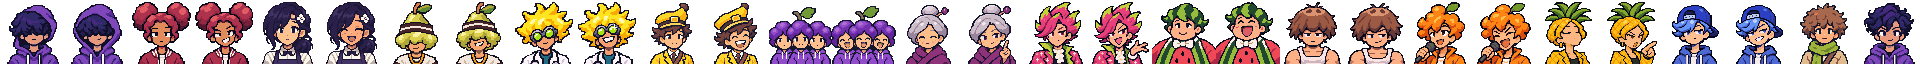
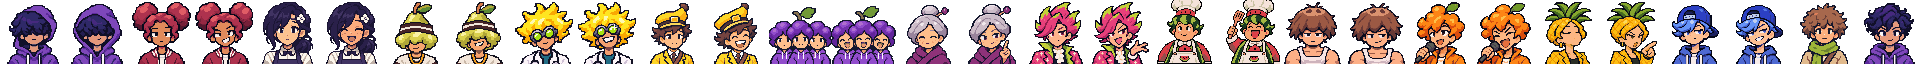
Settings, doors and HUD simplification (work in progress)
Claude-Session: https://claude.ai/code/session_01HtPH4yiA1RL6qEeafuyuW3

Changed region(s): [[0.5938, 0.0, 0.6875, 1.0]]

diff --git a/src/story/places.ts b/src/story/places.ts
@@ -162,9 +162,13 @@ const STATION_SEEDS: Record<StopId, StationSeed> = {
     looks: [look('coats', 'Coat check', LEFT_BOX, [say('raspberry', 'neutral', 'Coat check. You could check the hood. No? Okay. No.')], 'stall')],
     exit: 'The Club',
   },
+  // The Rooftop is a food court: a menu board by the train and a stall under the awning.
   stop08: {
-    looks: [look('bench', 'Bench', RIGHT_BOX, [silence()], 'bench')],
-    exit: 'Roof stairs',
+    looks: [
+      look('menu', 'Menu board', [54, 96, 26, 34], [say('npc', 'neutral', "Tonight's special: watermelon noodles. The chef insists.", 'COOK')], 'board'),
+      look('stall', 'Food stall', [150, 88, 46, 40], [silence()], 'stall'),
+    ],
+    exit: 'Food court',
   },
   stop09: {
     looks: [look('closed', 'Closed sign', LEFT_BOX, [say('watermelon', 'bold', 'Tunnels are just big round hallways. I fit right in!')], 'sign')],
@@ -274,14 +278,14 @@ const STREET_SEEDS: Partial<Record<StopId, StreetSeed>> = {
     ],
     fruitX: 210,
   },
-  // The Rooftop reuses the rooftop stage. Berry is alone here: the crew walked out at The Club.
+  // The Rooftop food court: stalls and tables, and Watermelon at his grill at the far end. Berry is alone here: the crew walked out at The Club.
   stop08: {
     looks: [
-      look('lights', 'String lights', [60, 92, 136, 14], [silence()]),
-      look('boombox', 'Boombox', [156, 116, 20, 16], [say('npc', 'neutral', "Big guy's been hosting up here all night. Go say hi.", 'GUEST')]),
-      look('tower', 'Water tower', [120, 62, 22, 28], [silence()]),
+      look('noodles', 'Noodle stall', box(0), [say('npc', 'neutral', "Noodles? The big chef's been cooking up here since sunset.", 'COOK')], 'stall'),
+      look('tables', 'Tables', box(1), [say('npc', 'neutral', "Table for one? You look more like a table-for-five kind of kid.", 'DINER')], 'bench'),
+      look('dumplings', 'Dumpling stall', box(2), [say('npc', 'neutral', "Big guy's been hosting up here all night. Go say hi.", 'GUEST')], 'stall'),
     ],
-    fruitX: 214,
+    fruitX: 584,
   },
   stop09: {
     looks: [

diff --git a/tests/places.test.ts b/tests/places.test.ts
@@ -24,10 +24,10 @@ describe('places', () => {
     }
   });
 
-  it('reuse the drawn stages as the streets of stops 3, 5, 7 and 8, and give the rest wide streets', () => {
+  it('reuse the drawn stages as the streets of stops 3, 5 and 7, and give the rest wide streets (the Rooftop is a food court)', () => {
     for (const stop of STOPS.slice(1, 11)) {
       const street = placeOf(stop.id, 'street')!;
-      if ([3, 5, 7, 8].includes(stop.number)) {
+      if ([3, 5, 7].includes(stop.number)) {
         expect(street.bg).toBe(stop.stage);
         expect(street.width).toBe(STATION_W);
       } else {

diff --git a/src/story/stops.ts b/src/story/stops.ts
@@ -136,7 +136,7 @@ const SEEDS: StopSeed[] = [
     journey: 'Reward',
     arc: 'Berry speaks his first full line and admits what happened in July. The crew returns. Watermelon makes five.',
     song: 'tutorial',
-    stage: Tex.stageRooftop,
+    // A rooftop food court: its own street (street_rooftop), danced at its far end, Watermelon's grill (stage_rooftop).
   },
   {
     station: 'The Tunnel',

diff --git a/src/core/assets.ts b/src/core/assets.ts
@@ -85,6 +85,7 @@ export const PRESENT_IMAGES: readonly string[] = [
   'street_the_tunnel',
   'street_orange_plaza',
   'street_pineapple_hall',
+  'street_rooftop',
 ];
 
 export function optionalSheets(): OptionalSheet[] {

diff --git a/tools/build_doors.py b/tools/build_doors.py
@@ -1,0 +1,84 @@
+#!/usr/bin/env python3
+"""Build the train door art from the generated sources.
+
+Usage:
+  python3 tools/build_doors.py
+
+Each source in archive/generated-sprites/doors/<name>_raw.png is a pair of
+closed sliding doors, seen from inside the carriage, drawn by an image model
+with its windows filled in flat magenta. This crops it to 16:10, reduces it to
+a small palette, takes the most common colour of each block (so edges stay
+hard), and turns the magenta windows transparent so the game can show the
+view outside through them. Output: public/assets/img/doors_<name>.png at
+256x160, the game's art size (shown at 5x).
+
+The game splits the picture down its centre seam (x 128): the left half slides
+left and the right half slides right. The blank display above the doors and
+the two status lamps are measured by eye and kept in DOOR_STYLES in
+src/explore/doors.ts; check them there if a source is regenerated.
+"""
+from pathlib import Path
+
+import numpy as np
+from PIL import Image
+from scipy import ndimage
+
+ROOT = Path(__file__).resolve().parent.parent
+SRC = ROOT / "archive/generated-sprites/doors"
+OUT = ROOT / "public/assets/img"
+WIDTH, HEIGHT = 256, 160
+STYLES = ["metro", "wood", "porthole"]
+
+
+def is_magenta(rgb: np.ndarray) -> np.ndarray:
+    r, g, b = (rgb[..., i].astype(int) for i in range(3))
+    return (r > 170) & (b > 170) & (g < 110) & (r - g > 110) & (b - g > 110)
+
+
+def convert(raw: Image.Image, colors: int = 40) -> Image.Image:
+    raw = raw.convert("RGB")
+    w, h = raw.size
+    # Keep the top (the header with the display and lamps) and trim the floor instead.
+    crop_h = int(round(w * HEIGHT / WIDTH))
+    if crop_h <= h:
+        raw = raw.crop((0, 0, w, crop_h))
+    else:
+        crop_w = int(round(h * WIDTH / HEIGHT))
+        left = (w - crop_w) // 2
+        raw = raw.crop((left, 0, left + crop_w, h))
+    rgb = np.array(raw)
+    # Only the big magenta areas are glass; small pink details (Porthole's equaliser) stay paint.
+    labels, count = ndimage.label(is_magenta(rgb))
+    sizes = ndimage.sum(np.ones_like(labels), labels, range(1, count + 1))
+    keep = [i + 1 for i, size in enumerate(sizes) if size > labels.size * 0.01]
+    hole = np.isin(labels, keep)
+    # Fill the holes with a neutral colour before quantising so magenta takes no palette slots.
+    rgb[hole] = (40, 30, 60)
+    quantized = Image.fromarray(rgb).quantize(colors=colors, method=Image.MEDIANCUT, dither=Image.NONE)
+    palette = np.array(quantized.getpalette()[: colors * 3], dtype=np.uint8).reshape(-1, 3)
+    index = np.array(quantized)
+    h, w = index.shape
+    out = np.zeros((HEIGHT, WIDTH, 4), dtype=np.uint8)
+    for y in range(HEIGHT):
+        y0, y1 = y * h // HEIGHT, max((y + 1) * h // HEIGHT, y * h // HEIGHT + 1)
+        for x in range(WIDTH):
+            x0, x1 = x * w // WIDTH, max((x + 1) * w // WIDTH, x * w // WIDTH + 1)
+            inner = (slice(y0 + 1, y1 - 1), slice(x0 + 1, x1 - 1)) if (y1 - y0 > 4 and x1 - x0 > 4) else (slice(y0, y1), slice(x0, x1))
+            if hole[inner].mean() > 0.5:
+                continue
+            out[y, x, :3] = palette[np.bincount(index[inner].ravel(), minlength=colors).argmax()]
+            out[y, x, 3] = 255
+    return Image.fromarray(out, "RGBA")
+
+
+def main() -> None:
+    for name in STYLES:
+        art = convert(Image.open(SRC / f"{name}_raw.png".replace(f"{name}_raw", f"doors_{name}_raw")))
+        path = OUT / f"doors_{name}.png"
+        art.save(path)
+        holes = np.argwhere(np.array(art)[..., 3] == 0)
+        print(f"{path.name}: glass rows {holes[:, 0].min()}-{holes[:, 0].max()}, cols {holes[:, 1].min()}-{holes[:, 1].max()}")
+
+
+if __name__ == "__main__":
+    main()

diff --git a/tools/build_ambient.py b/tools/build_ambient.py
@@ -1,0 +1,87 @@
+#!/usr/bin/env python3
+"""Build the background extras: the small people who make each setting feel lived in.
+
+Run from the repo root:  python3 tools/build_ambient.py
+
+Each raw sheet in archive/generated-sprites/ambient/<group>.png was generated
+with an image model from the cast as a style reference: four characters in
+columns, two frames of a short loop in rows. They are converted to real pixel
+art with tools/pixelize_sprites.py at the size that makes a standing extra
+about EXTRA_HEIGHT art pixels tall (the cast is 48 to 58), so they read as
+background people, and their colours are pulled a little toward the night ink
+so they sit behind the main characters. Output: public/assets/img/ambient_<group>.png,
+4 columns by 2 rows of 48x48 cells, feet on row 46; frame = row * 4 + column.
+Where each extra stands is in src/explore/ambient.json.
+"""
+from pathlib import Path
+
+import numpy as np
+from PIL import Image
+
+import pixelize_sprites as ps
+
+ROOT = Path(__file__).resolve().parent.parent
+SRC = ROOT / "archive" / "generated-sprites" / "ambient"
+OUT = ROOT / "public" / "assets" / "img"
+CELL = 48
+FEET = 46
+EXTRA_HEIGHT = 38
+# How far each colour is pulled toward the ink, so extras stay behind the cast.
+INK = np.array([36, 26, 58])
+DIM = 0.14
+GROUPS = ["club", "street", "market", "lab", "food", "commuters", "tunnel", "fans", "posh", "backstage", "town"]
+
+
+def palette(raw: Image.Image, colors: int = 28) -> np.ndarray:
+    px = np.array(raw.convert("RGBA")).reshape(-1, 4)
+    opaque = px[px[:, 3] > 200][:, :3]
+    strip = Image.fromarray(opaque.reshape(1, -1, 3).astype(np.uint8))
+    q = strip.quantize(colors=colors, method=Image.MEDIANCUT, dither=Image.NONE)
+    return np.unique(np.array(q.getpalette()[: colors * 3], dtype=np.int32).reshape(-1, 3), axis=0)
+
+
+def standing_height(path: Path) -> float:
+    """Median height in source pixels of the eight figures (the cat's column excluded by the median)."""
+    im = np.array(Image.open(path).convert("RGBA"))
+    h, w = im.shape[:2]
+    heights = []
+    for r in range(2):
+        for c in range(4):
+            cell = im[r * h // 2:(r + 1) * h // 2, c * w // 4:(c + 1) * w // 4, 3] > 128
+            ys = np.nonzero(cell.any(axis=1))[0]
+            if len(ys):
+                heights.append(ys.max() - ys.min() + 1)
+    return float(np.median(heights))
+
+
+def build(group: str) -> None:
+    path = SRC / f"{group}.png"
+    raw = Image.open(path)
+    size = standing_height(path) / EXTRA_HEIGHT
+    ps.CELL = 64
+    _, sheet = ps.pixelize(str(path), 4, 2, palette(raw), size)
+    big = np.array(sheet)
+    out = Image.new("RGBA", (4 * CELL, 2 * CELL), (0, 0, 0, 0))
+    for r in range(2):
+        for c in range(4):
+            cell = big[r * 64:(r + 1) * 64, c * 64:(c + 1) * 64].copy()
+            alpha = cell[..., 3] > 0
+            if not alpha.any():
+                continue
+            ys, xs = np.nonzero(alpha)
+            sprite = cell[ys.min():ys.max() + 1, xs.min():xs.max() + 1]
+            rgb = sprite[..., :3].astype(np.float64)
+            sprite[..., :3] = np.round(rgb * (1 - DIM) + INK * DIM).astype(np.uint8)
+            img = Image.fromarray(sprite)
+            # Keep each frame where the model put it relative to the column's first frame.
+            x = (CELL - img.width) // 2
+            y = FEET + 1 - img.height
+            out.alpha_composite(img, (c * CELL + max(0, x), r * CELL + max(0, y)))
+    out.save(OUT / f"ambient_{group}.png", optimize=True)
+    print(f"wrote ambient_{group}.png (art pixel {size:.1f})")
+
+
+if __name__ == "__main__":
+    for name in GROUPS:
+        if (SRC / f"{name}.png").exists():
+            build(name)

diff --git a/tools/make_portraits.py b/tools/make_portraits.py
@@ -33,6 +33,10 @@ reference, converted at 10.4; the first versions are in
 archive/generated-sprites/v1/portraits_v1.png. Frames 26-27 (Blueberry) were
 replaced the same month for his redesign as Berry's mirror (cap backwards,
 open hoodie, hood down), from the design round that chose his look.
+Frames 18-19 (Watermelon) were replaced the same month when he became the
+rooftop food court's chef (toque, apron, spatula), generated as a pair from
+his old frames and 0-3 as references and converted at 18.3 so the face keeps
+its size with the hat; the old pair is in archive/generated-sprites/v1/portraits_v1.png.
 Frames 10-29 were generated three characters (or the extras) to a 3x2 sheet
 from a design lineup of the new fruits and frames 0-9 as a style reference,
 converted at an art pixel of 10.6 source pixels with one palette per character.
